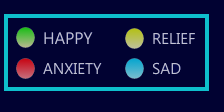
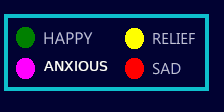
pie functionality added

diff --git a/dashboard/twitter/templates/twitter/pie.html b/dashboard/twitter/templates/twitter/pie.html
@@ -7,7 +7,7 @@
   const dataset_1_TendingTopics = [{
     label:'No of Tweets',
     backgroundColor:["Yellow", "Pink","Aqua","Blue","Green"],
-    data:[50,60,70,30,40],
+    data:{{top_5.count}},
     borderWidth:0
     }
 ];
@@ -16,7 +16,7 @@ const dataset_2_PositiveNegative = [
   {
     label:'No of Tweets',
     backgroundColor:['Yellow','Indigo'],
-    data:[500,1000],
+    data:[{{emotion.positive}},{{emotion.negative}}],
     borderWidth:0
   }
 ];
@@ -25,7 +25,7 @@ const dataset_3_Emotions = [
   {
     label:'No of Tweets',
     backgroundColor:['Yellow','Indigo','White','Red'],
-    data:[500,1000,700,300],
+    data:[{{emotion.happy}},{{emotion.sad}},{{emotion.anxious}},{{emotion.relieg}}],
     borderWidth:0
   }
 ];
@@ -34,7 +34,10 @@ const dataset_3_Emotions = [
   const ticks = {fontColor:"white"};
   const legend = {display:true,position:'bottom',labels:{fontColor:'white'}};
 ///////////////GRAPH STARTS ///////////////////////////////////////////
-  const labels_1 = ['Quarantine','Migrant','Final year','Exams','Hospital'];
+let labels_1 = [];
+{% for term in top_5.terms %}
+ labels_1.push('{{term}}');
+{% endfor %}
   new Chart(document.getElementById("tending_topics_twitter"), {
   type: 'pie',
   data: {
@@ -63,7 +66,7 @@ new Chart(document.getElementById("positive-negative"), {
 new Chart(document.getElementById("emotions"), {
     type: 'doughnut',
     data: {
-      labels: ['Happy','sad','Anxious','Relief'],
+      labels: ['Happy','Sad','Anxious','Relief'],
       datasets: dataset_3_Emotions
     },
     options: {

diff --git a/dashboard/twitter/templates/twitter/base.html b/dashboard/twitter/templates/twitter/base.html
@@ -206,7 +206,7 @@
                   <center>
                     <object data="{% static 'twitter/india.svg' %}" height="500" style="width:100%" onclick="alert('click!')">
                       <param name="title" value="{{loc}}" />
-                      <param name="color" value="red" />
+                      <param name="color" value="{{max_color}}" />
                     </object>
                   </center>
 

diff --git a/dashboard/twitter/views.py b/dashboard/twitter/views.py
@@ -39,14 +39,21 @@ def bar(request):
     filters_date = date.today()
     filters_content = filters_Default['content']
     filters_loc = filters_Default['loc']
+
+    max_color = "blue"
     
     if(request.method == 'POST'):
-        
         if(request.POST['reset']=='false'):
             filters_date = request.POST['date']
             filters_content = request.POST['content']
             filters_loc = request.POST['loc']
-        
+            if(filters_content!="None"):
+                get_tweets = get_tweets.filter(tweet__contains=filters_content)
+            #if(filters_loc!="None"):
+            #   get_tweets = get_tweets.filter(geo=filters_loc)
+
+
+            print(filters_date,type(filters_content),filters_loc)
         elif(request.POST['reset']=='true'):
             filters_date = filters_Default['date']
             filters_content = filters_Default['content']
@@ -106,6 +113,7 @@ def bar(request):
     emotion_filter_date = filter_date
     emotion_dates = []
     sad_date_tweet,anx_date_tweet,rel_date_tweet,hap_date_tweet=[],[],[],[]
+    flag = 0
     for _ in range(4):
         emotion_dates.append(emotion_filter_date.day)
         date_tweet = get_tweets.filter(date=emotion_filter_date)
@@ -116,6 +124,16 @@ def bar(request):
         rel_date_tweet.append(date_tweet.filter(Q(relief=True)).count())
         hap_date_tweet.append(date_tweet.filter(Q(happy=True)).count())
         #pos_date_tweet = date_tweet.filter(Q(positive=True)).count()
+        if(flag==0):
+            max_c = max(sad_date_tweet[0],anx_date_tweet[0],rel_date_tweet[0],hap_date_tweet[0])
+            if(max_c==sad_date_tweet[0]):
+                max_color = "red"
+            if(max_c==anx_date_tweet[0]):
+                max_color = "magenta"
+            if(max_c==rel_date_tweet[0]):
+                max_color = "yellow"
+            if(max_c==hap_date_tweet[0]):
+                max_color = "green"
         emotion_filter_date -= timedelta(days=1)
         # print(emotion_days[i])
     emotion = {'dates':emotion_dates[::-1],'sad':sad_date_tweet[::-1],'anxious':anx_date_tweet[::-1],'relief':rel_date_tweet[::-1],'happy':hap_date_tweet[::-1]}
@@ -131,21 +149,225 @@ def bar(request):
         'content': filters_content,
         'top_5': top_5,
         'pos_neg': pos_neg,
-        'emotion': emotion
+        'emotion': emotion,
+        'max_color': max_color,
     }
     #return HttpResponse(f"Runtime of the query is {end - start}")
     return render(request, 'twitter/bar.html',context)
 
 def line(request):
+    start = time.time()
+    get_tweets = Tweets.objects.all()
+    
+    filters_date = date.today()
+    filters_content = filters_Default['content']
+    filters_loc = filters_Default['loc']
+
+    max_color = "blue"
+    
+    if(request.method == 'POST'):
+        if(request.POST['reset']=='false'):
+            filters_date = request.POST['date']
+            filters_content = request.POST['content']
+            filters_loc = request.POST['loc']
+            if(filters_content!="None"):
+                get_tweets = get_tweets.filter(tweet__contains=filters_content)
+            #if(filters_loc!="None"):
+            #   get_tweets = get_tweets.filter(geo=filters_loc)
+
+
+            print(filters_date,type(filters_content),filters_loc)
+        elif(request.POST['reset']=='true'):
+            filters_date = filters_Default['date']
+            filters_content = filters_Default['content']
+            filters_loc = filters_Default['loc']
+        
+    tweet_cloud = ""
+    for tweet in get_tweets:
+        tweet_cloud += " "+tweet.tweet
+    stopwords = STOPWORDS|set(['covid','corona','lockdown','quarantine'])|set(["<NATURE>","<FOOD>","<SPACE-TIME>","<ACTIVITIES>","<OBJECTS>","<SYMBOLS>","<FLAGS>","<PERSON>","<HAPPY>","<LAUGH>","<LOVE>","<SARCASM>","<DOUBT>","<UNWELL>","<SAD>","<PISSED>","<SLEEPY>","<NEUTRAL>","<SHOCK>","<PATRIOT>"]) 
+    
+    wordcloud = WordCloud(width = 720, height = 360, 
+                background_color ='#010232', 
+                stopwords = stopwords, 
+                min_font_size = 10).generate(tweet_cloud) 
+    plt.figure(figsize = (16, 8), facecolor = None) 
+    plt.imshow(wordcloud) 
+    plt.axis("off") 
+    plt.tight_layout(pad = 0) 
+    plt.savefig('./twitter/static/twitter/word.png')
+
+    top_5 = word_count(tweet_cloud,stopwords)[:5]
+    top_5 = [top[0] for top in top_5]
+    neg_top_5,pos_top_5=[],[]
+    for top in top_5:
+        top_tweet = get_tweets.filter(tweet__contains=top[0])
+        neg_top_5.append(top_tweet.filter(Q(negative=True)|Q(sad=True)|Q(anxious=True)).count())
+        pos_top_5.append(top_tweet.filter(Q(positive=True)|Q(happy=True)|Q(relief=True)).count())
+        # print(top)
+    top_5 = {'terms':top_5,'positive':pos_top_5,'negative':neg_top_5}
+
+    #print(top_5)
+
+    given_date = "Fri Jun 12 2020 18:11:17 GMT+0530 (India Standard Time)"
+    filter_date = datetime.strptime(given_date[:33], "%a %b %d %Y %H:%M:%S %Z%z").date()      
+    #print(get_tweets.filter(date=filter_date))
+
+    pos_neg_filter_date = filter_date
+    pos_neg_dates = []
+    neg_perc = []
+    pos_perc = []
+    for _ in range(7):
+        pos_neg_dates.append(pos_neg_filter_date.day)
+        date_tweet = get_tweets.filter(date=pos_neg_filter_date)
+        neg_date_tweet = date_tweet.filter(Q(negative=True)|Q(sad=True)|Q(anxious=True)).count()
+        pos_date_tweet = date_tweet.filter(Q(positive=True)|Q(happy=True)|Q(relief=True)).count()
+        try:
+            neg_perc.append(neg_date_tweet/(neg_date_tweet+pos_date_tweet))
+            pos_perc.append(pos_date_tweet/(neg_date_tweet+pos_date_tweet))
+        except:
+            neg_perc.append(0)
+            pos_perc.append(0)
+        pos_neg_filter_date -= timedelta(days=1)
+        # print(pos_neg_days[i])
+    pos_neg = {'dates':pos_neg_dates[::-1],'positive':pos_perc[::-1],'negative':neg_perc[::-1]}
+    #print(pos_neg)
+
+    emotion_filter_date = filter_date
+    emotion_dates = []
+    sad_date_tweet,anx_date_tweet,rel_date_tweet,hap_date_tweet=[],[],[],[]
+    flag = 0
+    for _ in range(4):
+        emotion_dates.append(emotion_filter_date.day)
+        date_tweet = get_tweets.filter(date=emotion_filter_date)
+        #neg_date_tweet = date_tweet.filter(Q(negative=True)).count()
+        sad_date_tweet.append(date_tweet.filter(Q(sad=True)).count())
+        anx_date_tweet.append(date_tweet.filter(Q(anxious=True)).count())
+        #neu_date_tweet = date_tweet.filter(Q(neutral=True)).count()
+        rel_date_tweet.append(date_tweet.filter(Q(relief=True)).count())
+        hap_date_tweet.append(date_tweet.filter(Q(happy=True)).count())
+        #pos_date_tweet = date_tweet.filter(Q(positive=True)).count()
+        if(flag==0):
+            max_c = max(sad_date_tweet[0],anx_date_tweet[0],rel_date_tweet[0],hap_date_tweet[0])
+            if(max_c==sad_date_tweet[0]):
+                max_color = "red"
+            if(max_c==anx_date_tweet[0]):
+                max_color = "magenta"
+            if(max_c==rel_date_tweet[0]):
+                max_color = "yellow"
+            if(max_c==hap_date_tweet[0]):
+                max_color = "green"
+        emotion_filter_date -= timedelta(days=1)
+        # print(emotion_days[i])
+    emotion = {'dates':emotion_dates[::-1],'sad':sad_date_tweet[::-1],'anxious':anx_date_tweet[::-1],'relief':rel_date_tweet[::-1],'happy':hap_date_tweet[::-1]}
+    #print(emotion)
+
+    end = time.time()
+	
     context = {
-        'line' : True
+        'line' : True,
+        'wordcloud' :settings.MEDIA_ROOT+"/word.png",
+        'date': filters_date,
+        'loc': filters_loc,
+        'content': filters_content,
+        'top_5': top_5,
+        'pos_neg': pos_neg,
+        'emotion': emotion,
+        'max_color': max_color,
     }
+    #return HttpResponse(f"Runtime of the query is {end - start}")
     return render(request, 'twitter/line.html',context)
 
 def pie(request):
+    start = time.time()
+    get_tweets = Tweets.objects.all()
+    
+    filters_date = date.today()
+    filters_content = filters_Default['content']
+    filters_loc = filters_Default['loc']
+
+    max_color = "blue"
+    
+    if(request.method == 'POST'):
+        if(request.POST['reset']=='false'):
+            filters_date = request.POST['date']
+            filters_content = request.POST['content']
+            filters_loc = request.POST['loc']
+            if(filters_content!="None"):
+                get_tweets = get_tweets.filter(tweet__contains=filters_content)
+            #if(filters_loc!="None"):
+            #   get_tweets = get_tweets.filter(geo=filters_loc)
+
+
+            print(filters_date,type(filters_content),filters_loc)
+        elif(request.POST['reset']=='true'):
+            filters_date = filters_Default['date']
+            filters_content = filters_Default['content']
+            filters_loc = filters_Default['loc']
+        
+    tweet_cloud = ""
+    for tweet in get_tweets:
+        tweet_cloud += " "+tweet.tweet
+    stopwords = STOPWORDS|set(['covid','corona','lockdown','quarantine'])|set(["<NATURE>","<FOOD>","<SPACE-TIME>","<ACTIVITIES>","<OBJECTS>","<SYMBOLS>","<FLAGS>","<PERSON>","<HAPPY>","<LAUGH>","<LOVE>","<SARCASM>","<DOUBT>","<UNWELL>","<SAD>","<PISSED>","<SLEEPY>","<NEUTRAL>","<SHOCK>","<PATRIOT>"]) 
+    
+    wordcloud = WordCloud(width = 720, height = 360, 
+                background_color ='#010232', 
+                stopwords = stopwords, 
+                min_font_size = 10).generate(tweet_cloud) 
+    plt.figure(figsize = (16, 8), facecolor = None) 
+    plt.imshow(wordcloud) 
+    plt.axis("off") 
+    plt.tight_layout(pad = 0) 
+    plt.savefig('./twitter/static/twitter/word.png')
+
+    top_5 = word_count(tweet_cloud,stopwords)[:5]
+    top_5 = [top[0] for top in top_5]
+    count_top_5=[]
+    for top in top_5:
+        count_top_5.append(get_tweets.filter(tweet__contains=top[0]).count())
+    top_5 = {'terms':top_5,'count':count_top_5}
+
+    #print(top_5)
+
+    given_date = "Fri Jun 12 2020 18:11:17 GMT+0530 (India Standard Time)"
+    filter_date = datetime.strptime(given_date[:33], "%a %b %d %Y %H:%M:%S %Z%z").date()      
+    #print(get_tweets.filter(date=filter_date))
+
+    emotion_filter_date = filter_date
+    sad_date_tweet,anx_date_tweet,rel_date_tweet,hap_date_tweet,pos_date_tweet,neg_date_tweet=0,0,0,0,0,0
+    date_tweet = get_tweets.filter(date=emotion_filter_date)
+    neg_date_tweet = date_tweet.filter(Q(negative=True)).count()
+    sad_date_tweet = date_tweet.filter(Q(sad=True)).count()
+    anx_date_tweet = date_tweet.filter(Q(anxious=True)).count()
+    #neu_date_tweet = date_tweet.filter(Q(neutral=True)).count()
+    rel_date_tweet = date_tweet.filter(Q(relief=True)).count()
+    hap_date_tweet = date_tweet.filter(Q(happy=True)).count()
+    pos_date_tweet = date_tweet.filter(Q(positive=True)).count()
+    max_c = max(sad_date_tweet,anx_date_tweet,rel_date_tweet,hap_date_tweet)
+    if(max_c==sad_date_tweet):
+        max_color = "red"
+    if(max_c==anx_date_tweet):
+        max_color = "magenta"
+    if(max_c==rel_date_tweet):
+        max_color = "yellow"
+    if(max_c==hap_date_tweet):
+        max_color = "green"
+    emotion = {'sad':sad_date_tweet,'anxious':anx_date_tweet,'relief':rel_date_tweet,'happy':hap_date_tweet,'positive':pos_date_tweet,'negative':neg_date_tweet}
+    #print(emotion)
+
+    end = time.time()
+	
     context = {
-        'pie' : True
+        'pie' : True,
+        'wordcloud' :settings.MEDIA_ROOT+"/word.png",
+        'date': filters_date,
+        'loc': filters_loc,
+        'content': filters_content,
+        'top_5': top_5,
+        'emotion': emotion,
+        'max_color': max_color,
     }
+    #return HttpResponse(f"Runtime of the query is {end - start}")
     return render(request, 'twitter/pie.html',context)
 
 def deleteTweets(request):
